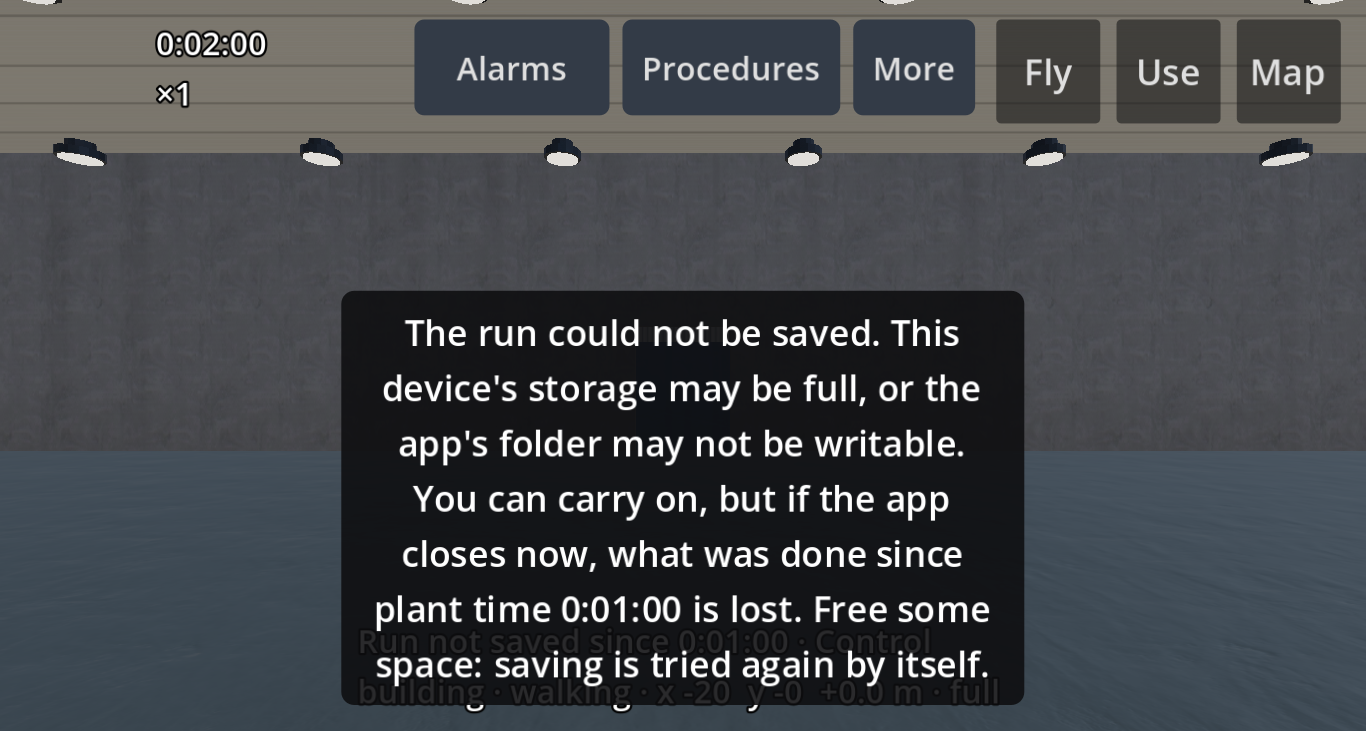
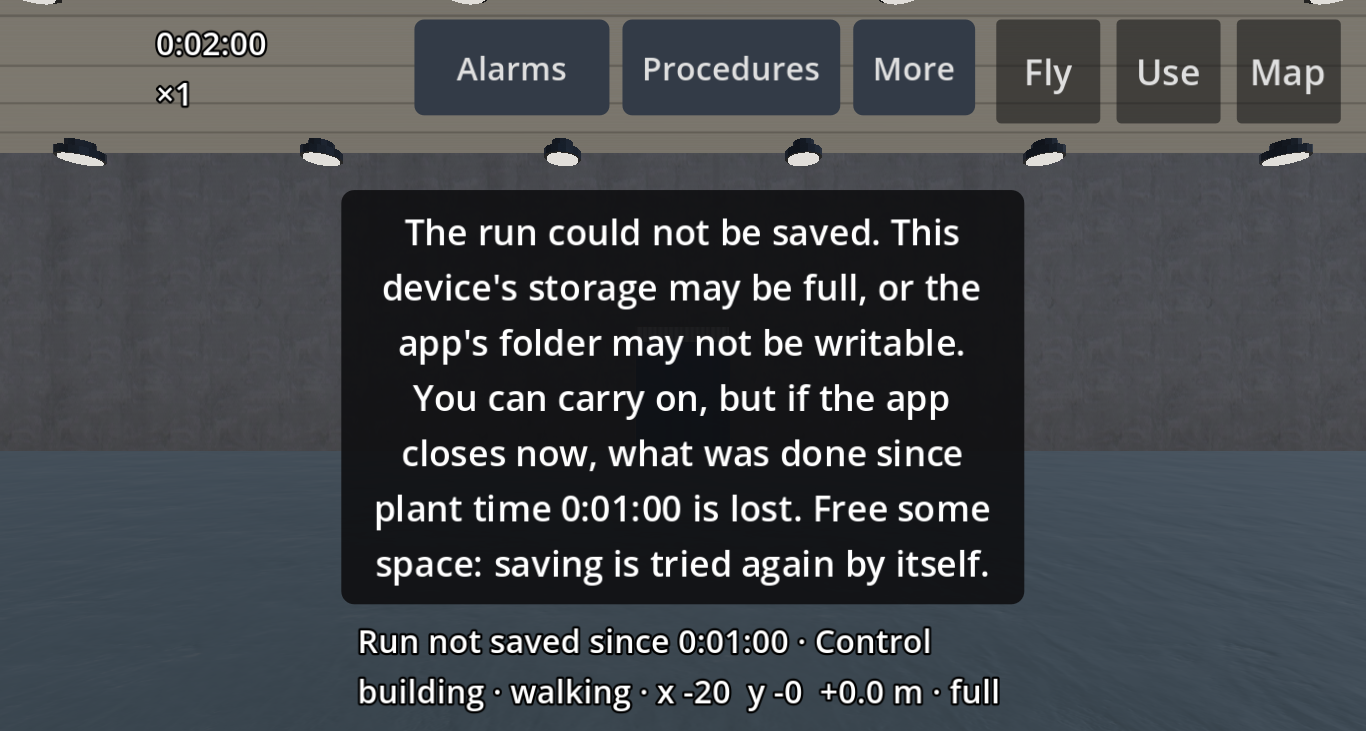
UX evidence: A failed autosave said (#473), round 2

Changed region(s): [[0.246, 0.2408, 0.7687, 0.9631]]

diff --git a/MANIFEST.md b/MANIFEST.md
@@ -1,15 +1,15 @@
-# UX evidence: A failed autosave said (#473), round 1
+# UX evidence: A failed autosave said (#473), round 2
 
-Synthetic (the invented plant), commit 49066a666a1b9546ae634b4dab55eabf47ca7bc2. `apps/plant3d/tests/save_failure_shots.gd` under tools/plant3d/bench/offscreen.sh (OFFSCREEN_GODOT_DATA a folder of its own): desk_uidefault (1600x900, 100 %), desk_ui2 (1366x768, 200 %), phone_uidefault (2220x1080 phone layout); states savefail_said (the message and the status line), savefail_line (the line alone, the message gone), savefail_saved_again.
+Synthetic (the invented plant), commit 24dda7403501ad4973be0ac166fda2d4304386de. `apps/plant3d/tests/save_failure_shots.gd` under tools/plant3d/bench/offscreen.sh (OFFSCREEN_GODOT_DATA a folder of its own): desk_uidefault (1600x900, 100 %), desk_ui2 (1366x768, 200 %), phone_uidefault (2220x1080 phone layout); states savefail_said (the notice above the status line), savefail_line, savefail_saved_again.
 
 ```
-6e9cccb52d6d7ee3c0c6b4fd332f8906a19012b2c78160b5adfc66af9656b7b1  desk_ui2_savefail_line.png
-0c54fb1c469207738e753ae74455b7250d6f5d87718fd7a9a00308d09ff0b47f  desk_ui2_savefail_said.png
-2fa613925c12906b384e538f89762f72f629c585300bf40e972444db8afe693c  desk_ui2_savefail_saved_again.png
-0949c22bff3622dfb9b6435cbce231457c37519fcc9c6443a4a5d384fe529b7c  desk_uidefault_savefail_line.png
-23e6debc512e2c3cc85681351081a235cc2c521b8b66a707e9c9e89dab28c098  desk_uidefault_savefail_said.png
-b316b7a0d37771c9c43bbfd1482e8168691d065038b4ad231b1d1064dfc5fe6f  desk_uidefault_savefail_saved_again.png
-9fadc351120bacac2024da57ecbd2dca74c2ec9fccdb9b9053ce916f3c78edcd  phone_uidefault_savefail_line.png
-771799cda71babba48ef6c4c00f4e46c1f62d1a0861c6c5bc5ae5d7167254a69  phone_uidefault_savefail_said.png
-2027b9ae90937a3de95352aa05cd122b061aebdc88c1750b793671e6e02cdc73  phone_uidefault_savefail_saved_again.png
+63c24366a7682fdea820279eea5dc8caf9433504de3cd2b5bd06869e4f375ad9  desk_ui2_savefail_line.png
+d49487b6645e8204c5dcf893775f6af34cd3915eef183cb745422efdd8f30187  desk_ui2_savefail_said.png
+b756fd49b151986d9916a494a4a5b00085f2241d8f873b7a1d3c7a0bd3de91d9  desk_ui2_savefail_saved_again.png
+1c922497630851933034823241baf0ac5530cfd392405fceffab45825d4d5d0f  desk_uidefault_savefail_line.png
+a931fe3627984f370953820079eeeeec2971404969d45e066f7173ee91ffe8df  desk_uidefault_savefail_said.png
+ab764099dff78d5a70539ca0838bf18934b9d0560e38ebed8540ef2259b0e1f7  desk_uidefault_savefail_saved_again.png
+8aef3434afd58f89a0dde6a7f58b42a5a34f49f96987d9e7fd0aca11ad9307e4  phone_uidefault_savefail_line.png
+4bfd895a4b6da3d27890d845db8fc5adfeac6e3e90ed799aed122326d43740cc  phone_uidefault_savefail_said.png
+7c592278d5210b90bc7a95c31aff522eec7bcc1f99d9ca7d6ae5d81ce80dd2ae  phone_uidefault_savefail_saved_again.png
 ```
